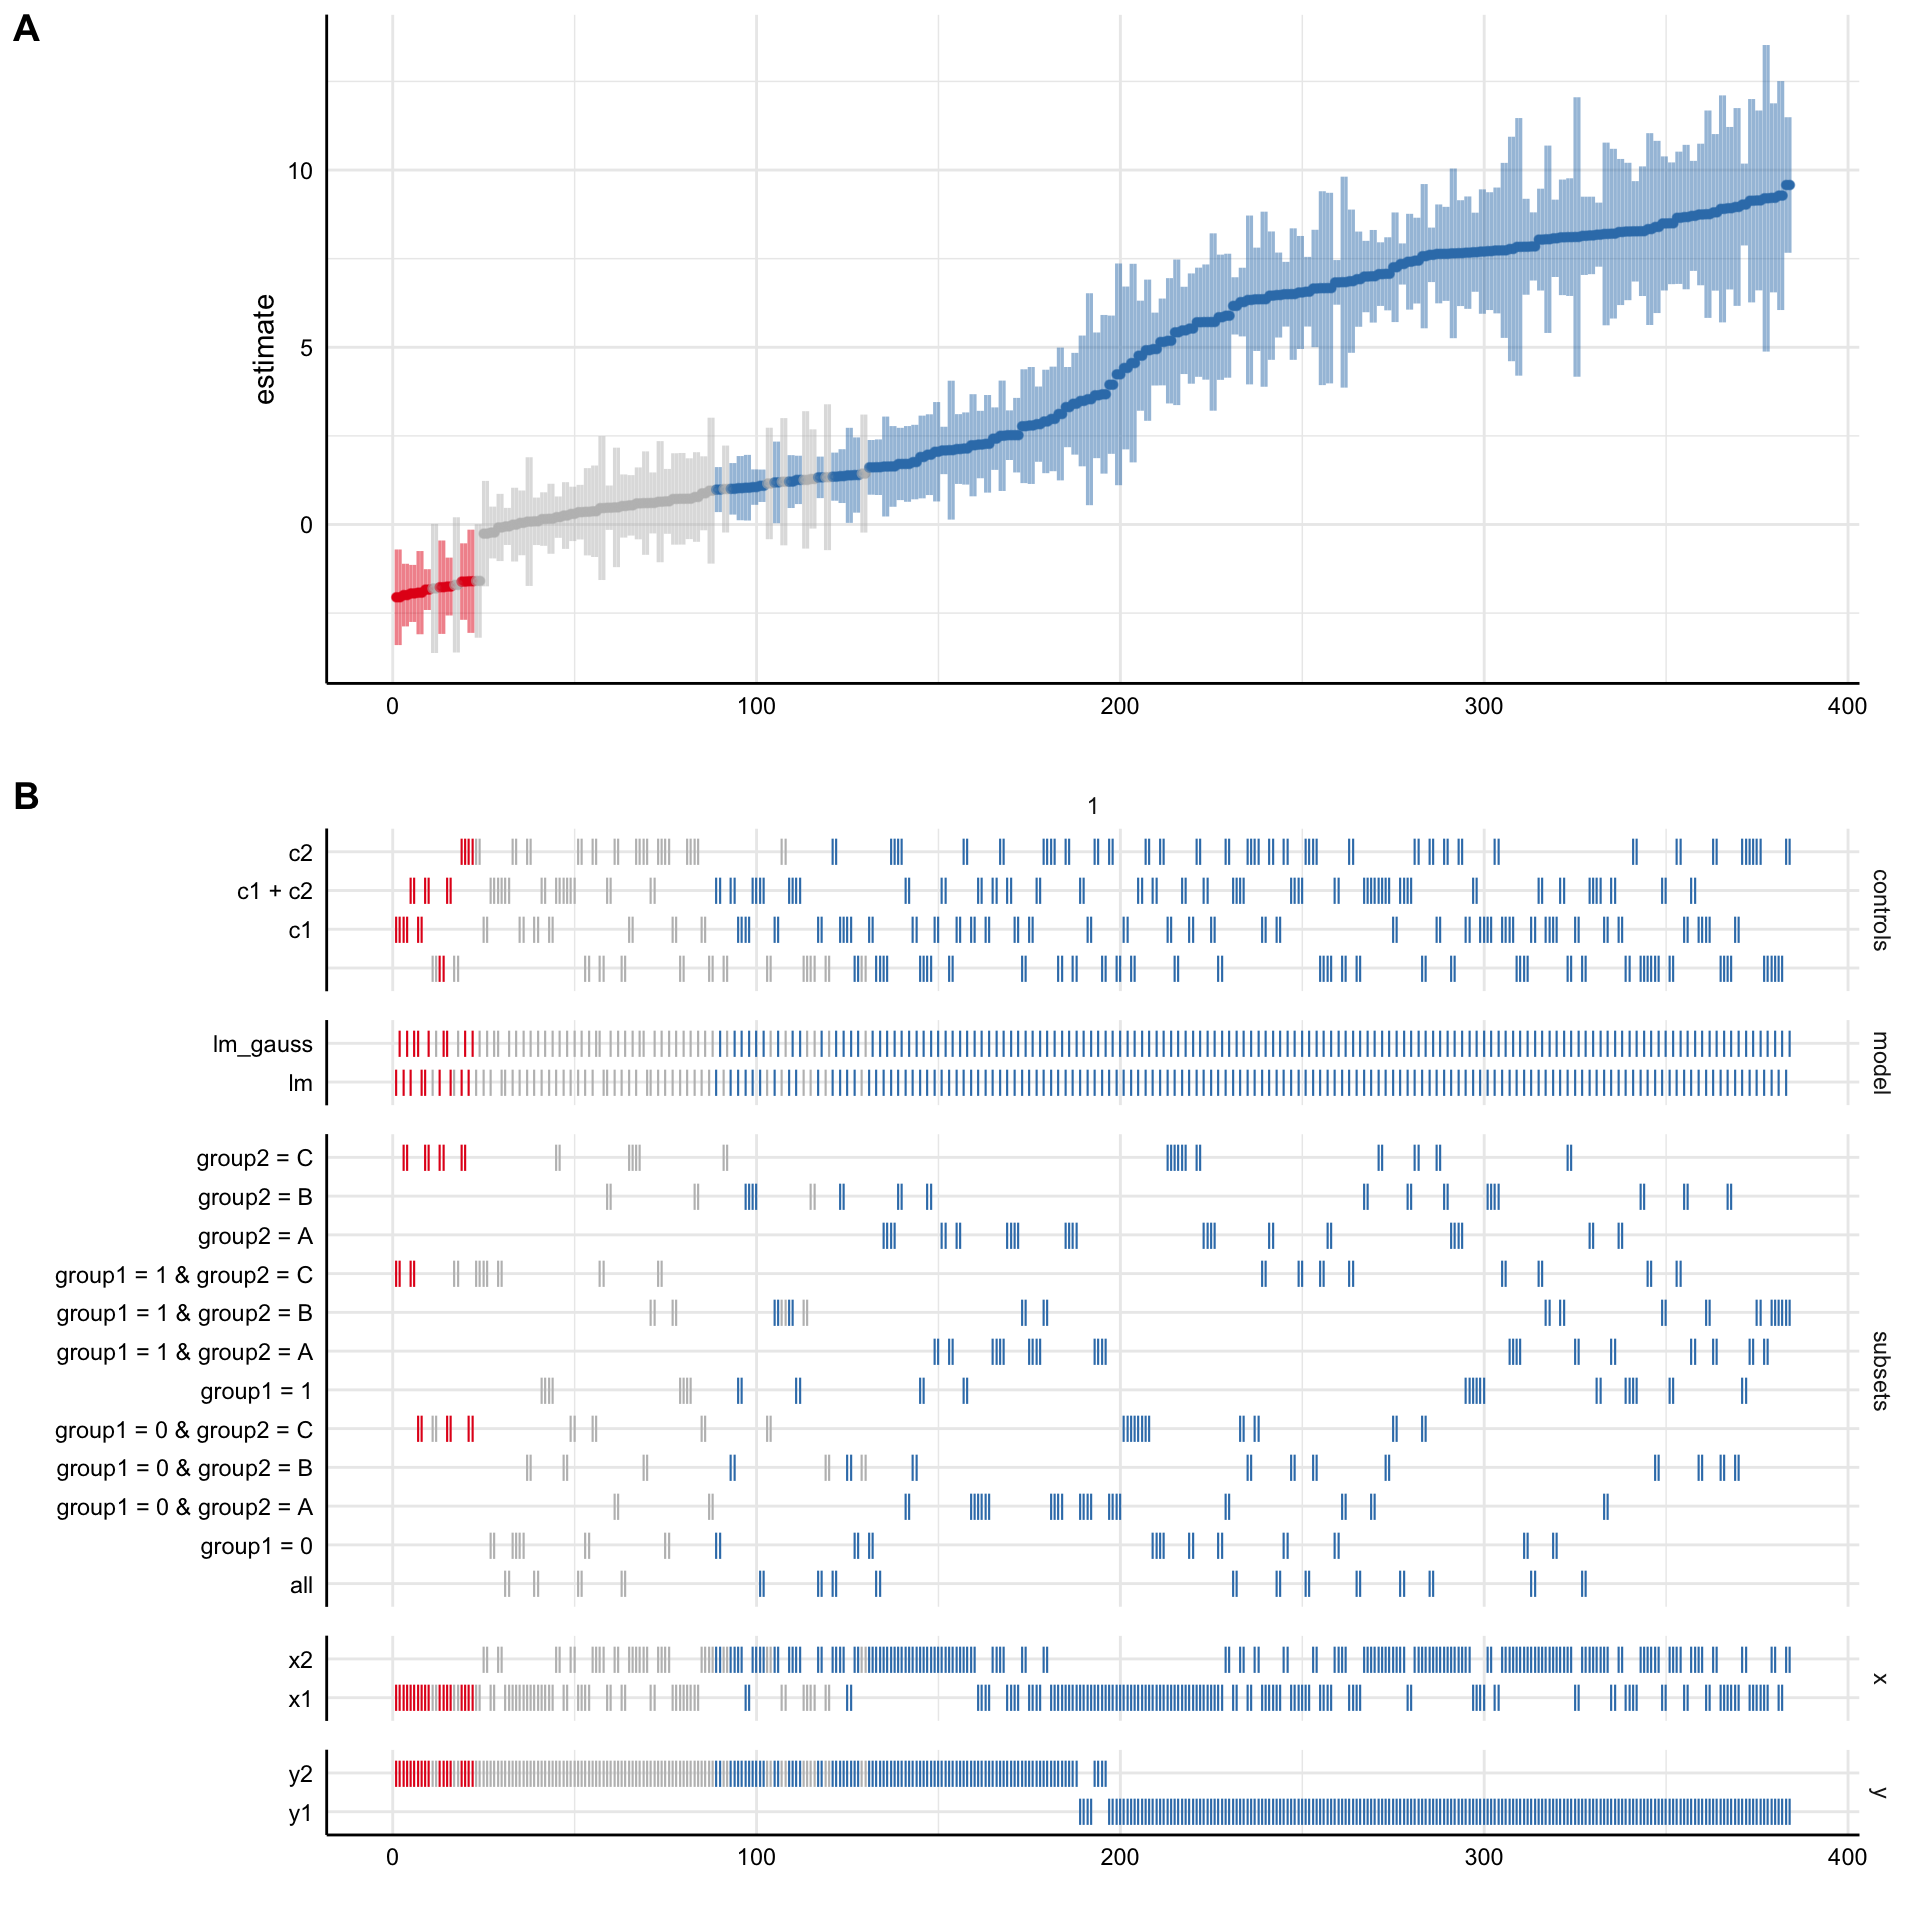
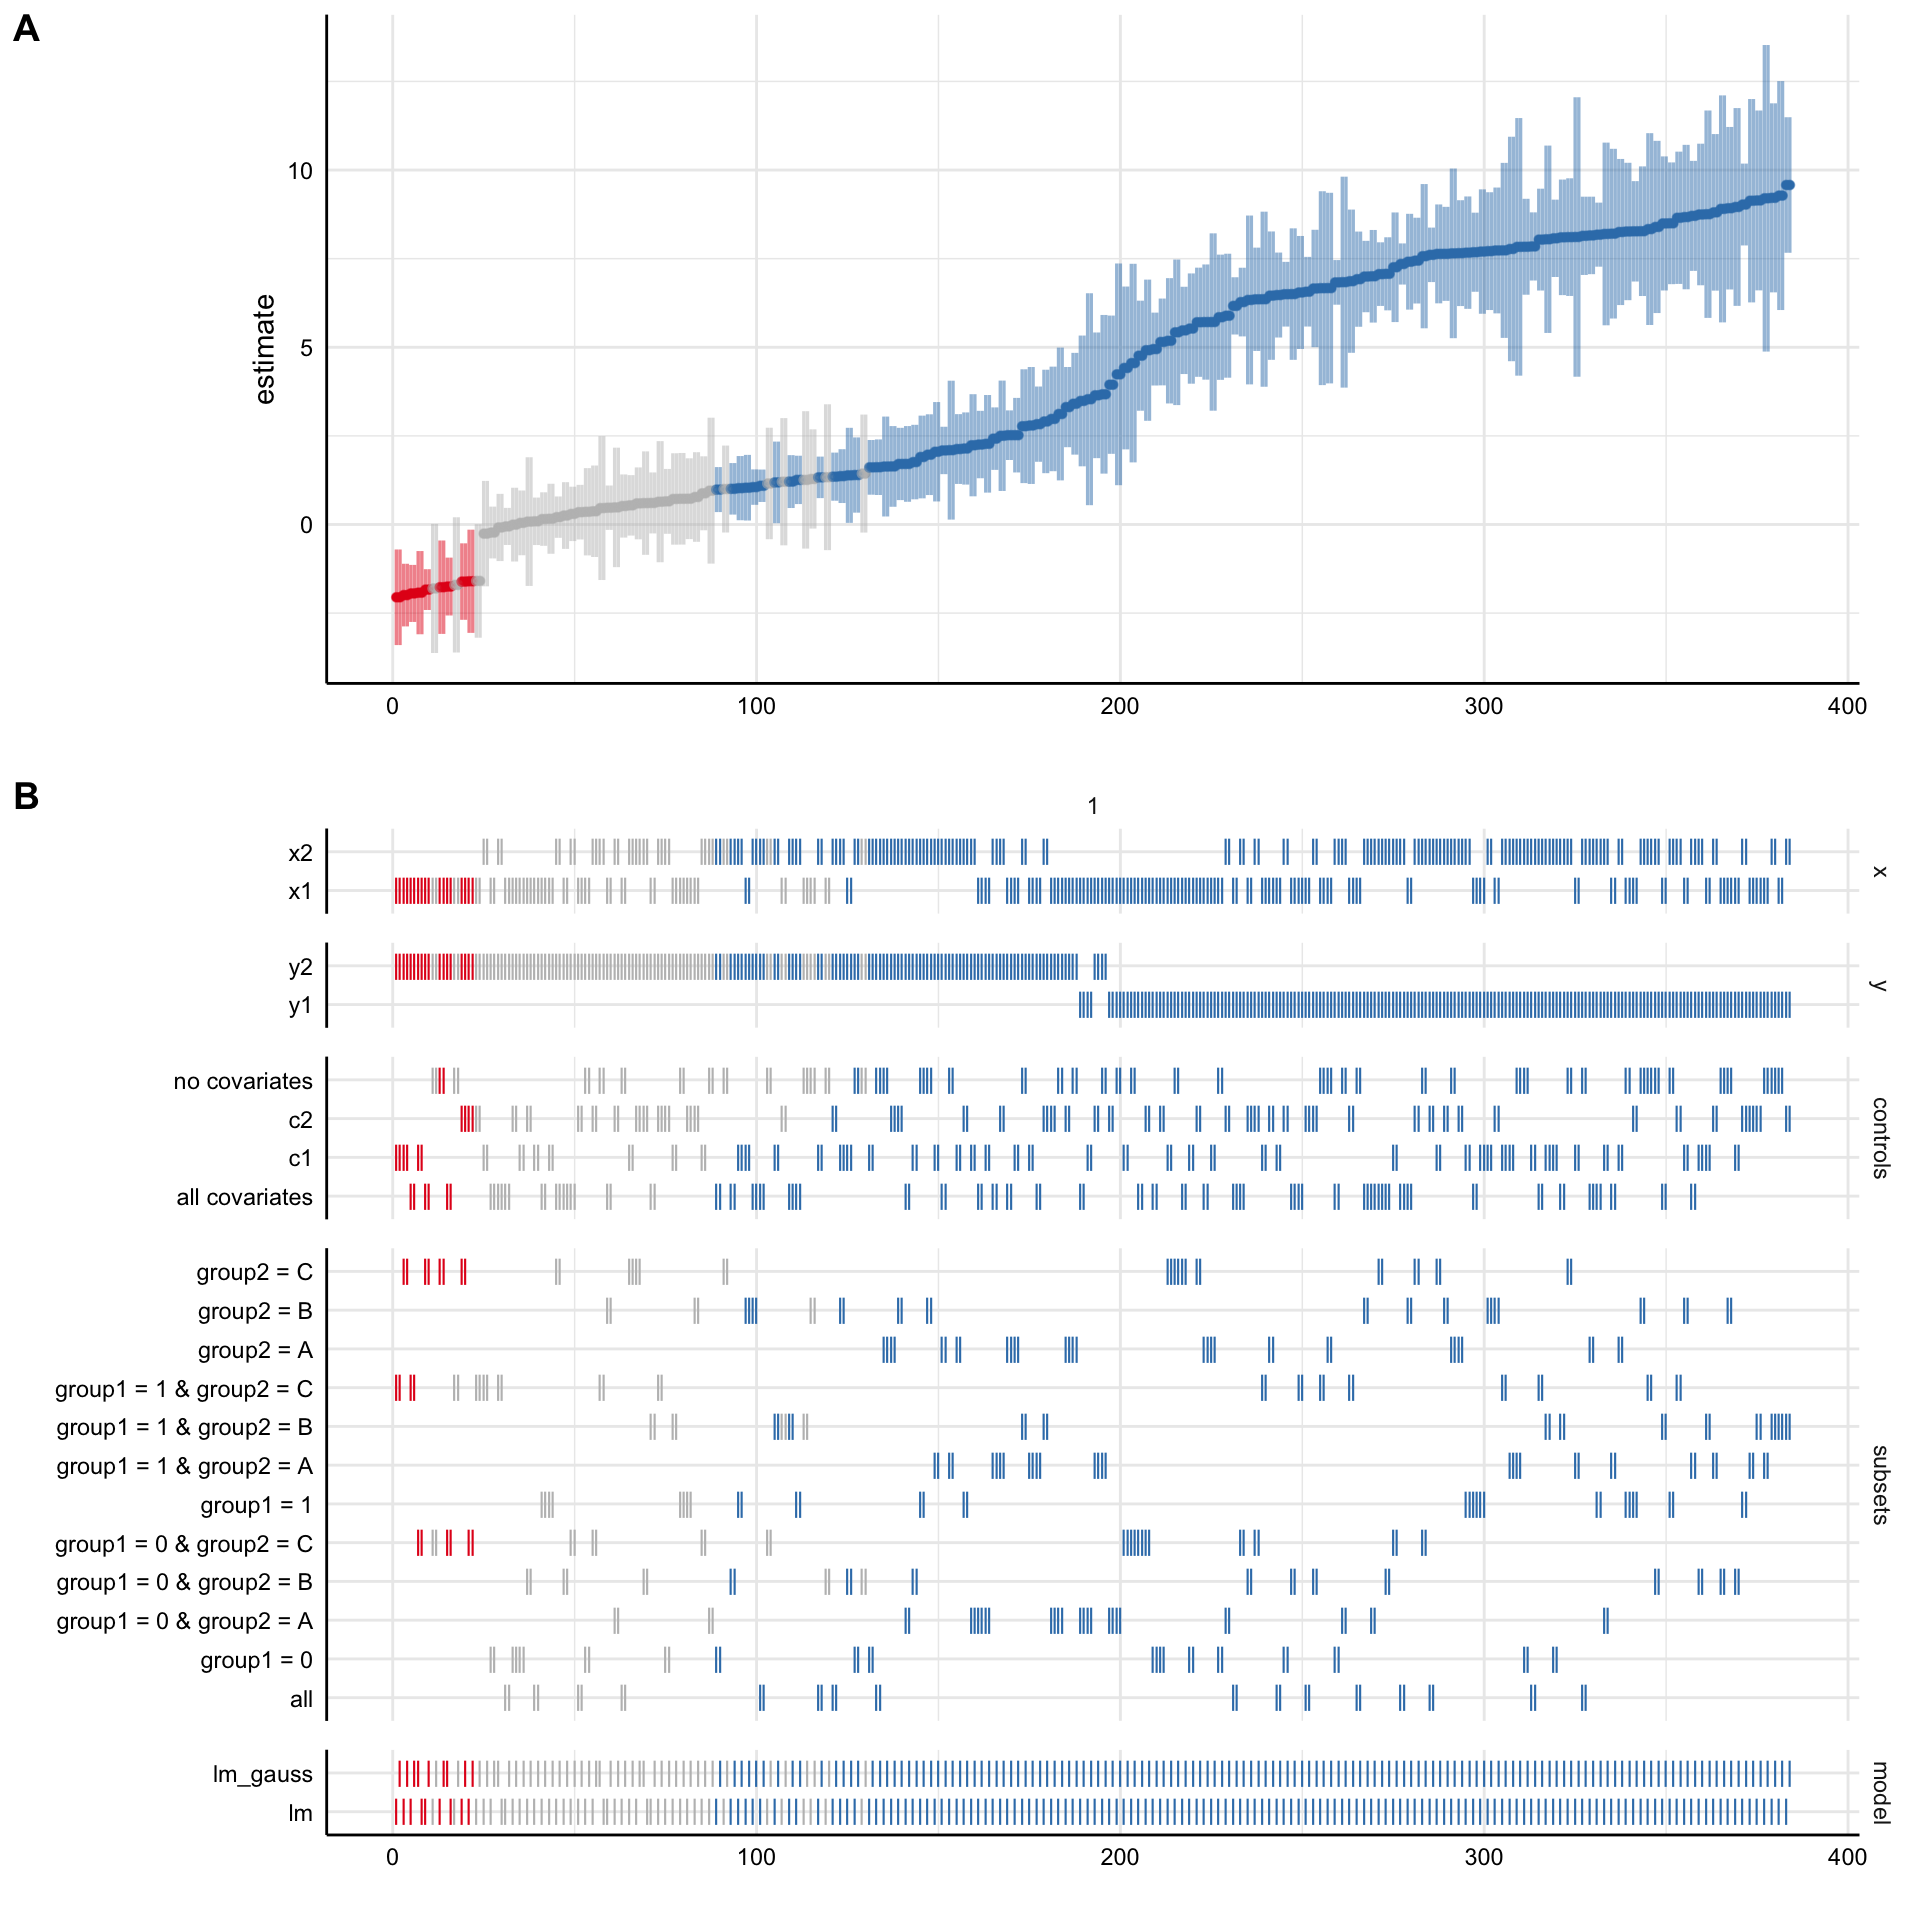
Change naming of all covariates (in most use cases the string will otherwise be too long).

diff --git a/README.md b/README.md
@@ -98,9 +98,9 @@ results
 #> # … with 374 more rows, and 1 more variable: subsets <chr>
 ```
 
-In a final step, we can use the function `plot_specs()` to produce a
-typical visualization of the specification curve and how the analytical
-choices affected the obtained results.
+We can then use the function `plot_specs()` to produce a typical
+visualization of the specification curve and how the analytical choices
+affected the obtained results.
 
 ``` r
 # Plot specification curve analysis
@@ -118,12 +118,12 @@ the function `variance_specs()` to calculate a respective table or
 # Decompose variance of the specification curve
 variance_specs(results)
 #>        grp        vcov         icc    percent
-#> 1  subsets  0.79493804 0.036267265  3.6267265
-#> 2 controls  0.04969939 0.002267423  0.2267423
+#> 1  subsets  0.79559770 0.036197590  3.6197590
+#> 2 controls  0.04954707 0.002254261  0.2254261
 #> 3    model  0.00000000 0.000000000  0.0000000
-#> 4        y 19.68136056 0.897917924 89.7917924
-#> 5        x  0.43038432 0.019635319  1.9635319
-#> 6 Residual  0.96250363 0.043912069  4.3912069
+#> 4        y 19.74075311 0.898152033 89.8152033
+#> 5        x  0.43091262 0.019605384  1.9605384
+#> 6 Residual  0.96248965 0.043790732  4.3790732
 
 # Plot decomposition
 plot_variance(results)
